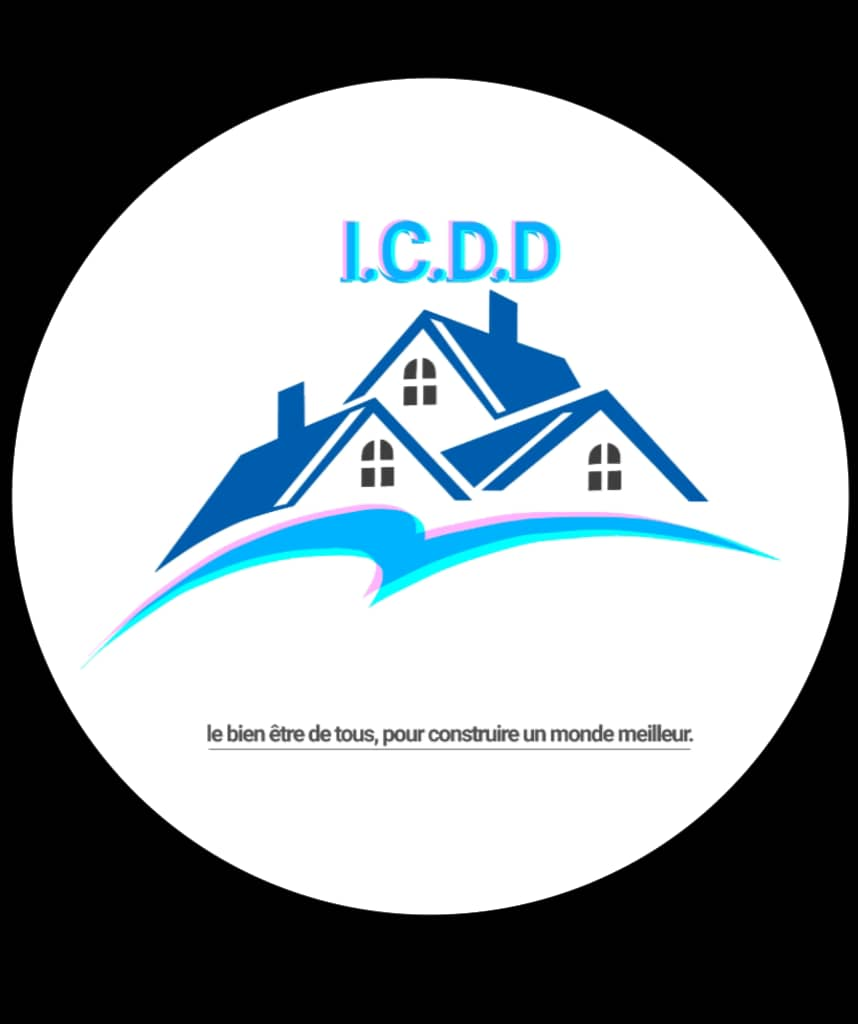
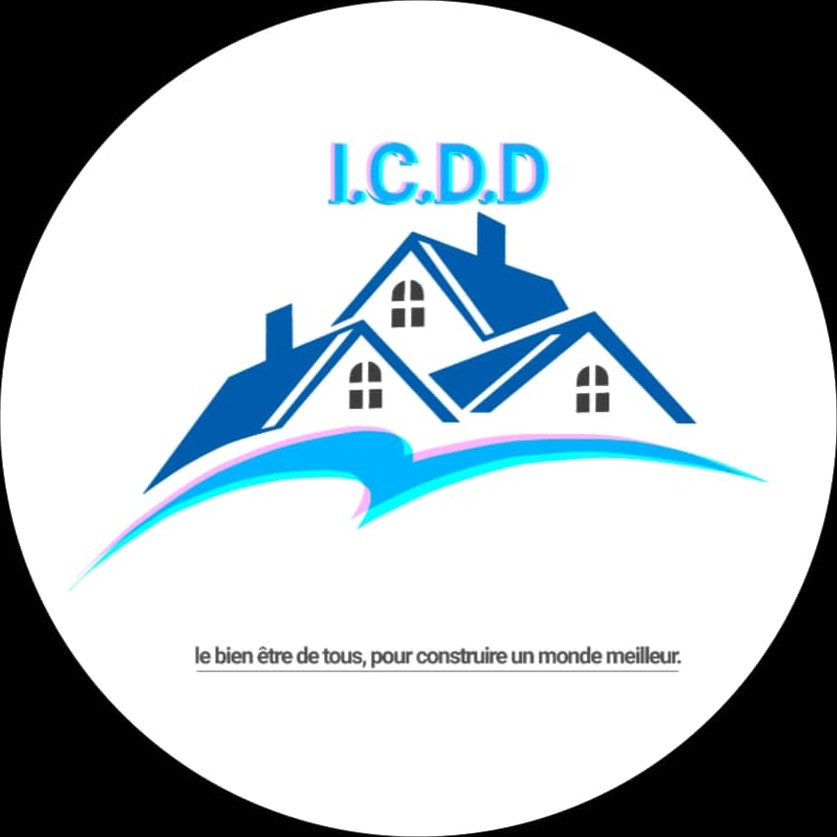
fix: add image fallback and replace corrupted assets
Add onError fallback for the main background image and replace corrupted icdd.jpeg image files to resolve rendering issues.

Changed region(s): [[0.0, 0.0, 1.0, 1.0], [0.2485, 0.6834, 0.8076, 0.7455], [0.2796, 0.4349, 0.3106, 0.4659]]

diff --git a/src/components/TopBar.tsx b/src/components/TopBar.tsx
@@ -2,6 +2,7 @@ import React from 'react';
 import { FilterState, NavTab } from '../types';
 import { ChevronDown, FileText, FolderKanban, LogIn, LogOut, User as UserIcon, Bookmark } from 'lucide-react';
 import { useAuth } from '../context/AuthContext';
+import icddOfficialLogo from '../assets/images/icdd.jpeg';
 
 interface TopBarProps {
   filters: FilterState;
@@ -33,15 +34,15 @@ export const TopBar: React.FC<TopBarProps> = ({
           onClick={() => setActiveTab('accueil')}
           className="flex items-center gap-2 cursor-pointer group"
         >
-          <div className="w-8 h-8 rounded-full bg-slate-950 text-white flex items-center justify-center font-black text-xs shadow-md border border-amber-400/50 tracking-tight group-hover:scale-105 transition-transform overflow-hidden relative">
-            <span className="text-[10px] text-amber-400">IC</span>
+          <div className="w-8 h-8 rounded-full bg-white dark:bg-slate-900 text-slate-900 dark:text-white flex items-center justify-center font-black text-xs shadow-md border border-amber-400/60 tracking-tight group-hover:scale-105 transition-transform overflow-hidden relative">
+            <span className="text-[10px] text-amber-500">IC</span>
             <img 
-              src="/icdd.jpeg" 
+              src={icddOfficialLogo} 
               alt="Logo ICDD" 
-              className="absolute inset-0 w-full h-full object-cover" 
+              className="absolute inset-0 w-full h-full object-cover scale-[1.32] transition-transform" 
               referrerPolicy="no-referrer"
               onError={(e) => {
-                (e.currentTarget as HTMLElement).style.display = 'none';
+                (e.currentTarget as HTMLImageElement).src = '/icdd.jpeg';
               }}
             />
           </div>
@@ -124,15 +125,15 @@ export const TopBar: React.FC<TopBarProps> = ({
             className="flex items-center gap-2.5 px-3.5 py-1.5 rounded-full bg-white/85 dark:bg-slate-900/85 backdrop-blur-xl border border-white/80 dark:border-white/20 shadow-md cursor-pointer hover:scale-105 transition-transform group"
             title="ICDD – Accueil"
           >
-            <div className="w-8 h-8 rounded-full bg-slate-950 text-white flex items-center justify-center font-black text-xs shadow-sm border border-amber-400/50 tracking-tight overflow-hidden relative flex-shrink-0">
-              <span className="text-[10px] text-amber-400">IC</span>
+            <div className="w-8 h-8 rounded-full bg-white dark:bg-slate-900 text-slate-900 dark:text-white flex items-center justify-center font-black text-xs shadow-sm border border-amber-400/60 tracking-tight overflow-hidden relative flex-shrink-0">
+              <span className="text-[10px] text-amber-500">IC</span>
               <img 
-                src="/icdd.jpeg" 
+                src={icddOfficialLogo} 
                 alt="Logo ICDD" 
-                className="absolute inset-0 w-full h-full object-cover" 
+                className="absolute inset-0 w-full h-full object-cover scale-[1.32] transition-transform" 
                 referrerPolicy="no-referrer"
                 onError={(e) => {
-                  (e.currentTarget as HTMLElement).style.display = 'none';
+                  (e.currentTarget as HTMLImageElement).src = '/icdd.jpeg';
                 }}
               />
             </div>

diff --git a/src/components/AgencyView.tsx b/src/components/AgencyView.tsx
@@ -2,6 +2,7 @@ import React from 'react';
 import { TEAM_MEMBERS } from '../data/projects';
 import { Sparkles, Award, ShieldCheck, Compass, Users, CheckCircle2, ArrowUpRight, Phone, MessageCircle, Clock } from 'lucide-react';
 import { NavTab } from '../types';
+import icddOfficialLogo from '../assets/images/icdd.jpeg';
 
 interface AgencyViewProps {
   openQuoteModal: () => void;
@@ -40,15 +41,15 @@ export const AgencyView: React.FC<AgencyViewProps> = ({ openQuoteModal, setActiv
         <div className="bg-white/85 dark:bg-slate-900/85 backdrop-blur-2xl p-5 sm:p-10 rounded-[24px] sm:rounded-[36px] border border-white/80 dark:border-white/20 shadow-xl space-y-4 sm:space-y-6">
           <div className="flex flex-col sm:flex-row sm:items-center justify-between gap-3">
             <div className="inline-flex items-center gap-2.5 px-3.5 py-1.5 rounded-full bg-amber-400/30 text-amber-950 dark:text-amber-300 text-xs font-bold border border-amber-300 w-fit">
-              <div className="w-5 h-5 rounded-full overflow-hidden bg-slate-950 border border-amber-500/50 shadow-sm flex-shrink-0 relative">
-                <span className="text-[8px] text-amber-400 flex items-center justify-center h-full">IC</span>
+              <div className="w-5 h-5 rounded-full overflow-hidden bg-white dark:bg-slate-900 border border-amber-500/50 shadow-sm flex-shrink-0 relative">
+                <span className="text-[8px] text-amber-500 flex items-center justify-center h-full">IC</span>
                 <img 
-                  src="/icdd.jpeg" 
+                  src={icddOfficialLogo} 
                   alt="Logo ICDD" 
-                  className="absolute inset-0 w-full h-full object-cover" 
+                  className="absolute inset-0 w-full h-full object-cover scale-[1.32]" 
                   referrerPolicy="no-referrer"
                   onError={(e) => {
-                    (e.currentTarget as HTMLElement).style.display = 'none';
+                    (e.currentTarget as HTMLImageElement).src = '/icdd.jpeg';
                   }}
                 />
               </div>
@@ -56,12 +57,15 @@ export const AgencyView: React.FC<AgencyViewProps> = ({ openQuoteModal, setActiv
             </div>
 
             <div className="hidden sm:flex items-center gap-2 px-3 py-1 rounded-full bg-slate-100 dark:bg-slate-800 border border-slate-200 dark:border-slate-700 w-fit">
-              <div className="w-6 h-6 rounded-full overflow-hidden border border-amber-400/40 bg-slate-950 flex-shrink-0 relative">
+              <div className="w-6 h-6 rounded-full overflow-hidden border border-amber-400/60 bg-white dark:bg-slate-900 flex-shrink-0 relative">
                 <img 
-                  src="/icdd.jpeg" 
+                  src={icddOfficialLogo} 
                   alt="Logo ICDD" 
-                  className="w-full h-full object-cover" 
+                  className="w-full h-full object-cover scale-[1.32]" 
                   referrerPolicy="no-referrer" 
+                  onError={(e) => {
+                    (e.currentTarget as HTMLImageElement).src = '/icdd.jpeg';
+                  }}
                 />
               </div>
               <span className="text-[11px] font-black uppercase text-slate-800 dark:text-slate-200 tracking-wider">

diff --git a/src/data/projects.ts b/src/data/projects.ts
@@ -1,4 +1,17 @@
 import { Project, DecorOffer } from '../types';
+import icddLuxuryInterior from '../assets/images/icdd_luxury_interior_1786542633755.jpg';
+import villaRiviera from '../assets/images/villa_riviera_1786542646750.jpg';
+import haussmannReborn from '../assets/images/haussmann_reborn_1786542659834.jpg';
+import icddOfficialLogo from '../assets/images/icdd.jpeg';
+import icdddPhoto from '../assets/images/icddd.jpeg';
+
+export const ICDD_ASSETS = {
+  logo: icddOfficialLogo,
+  luxuryInterior: icddLuxuryInterior,
+  villaRiviera: villaRiviera,
+  haussmannReborn: haussmannReborn,
+  decorPhoto: icdddPhoto,
+};
 
 export const ICDD_OFFERS_CONFIG: Record<DecorOffer, { basePrice: number; description: string; badge: string; minWallM2: number }> = {
   'Décoration simple': {
@@ -47,10 +60,11 @@ export const ICDD_PROJECTS: Project[] = [
     startingPrice: 800,
     description: "Finitions sur-mesure d'exception pour un grand salon avec effets de matières artistiques et niches lumineuses.",
     fullDescription: "Réalisation emblématique de la collection Top Modèle d'ICDD. Nos artisans peintres et décorateurs ont créé un jeu de textures murales uniques alliant enduit à la chaux poli, effets de feuilles dorées subtiles et préparation murale au millimètre près.",
-    coverImage: '/src/assets/images/icdd_luxury_interior_1786542633755.jpg',
+    coverImage: icddLuxuryInterior,
     galleryImages: [
-      '/src/assets/images/icdd_luxury_interior_1786542633755.jpg',
-      '/src/assets/images/villa_riviera_1786542646750.jpg',
+      icddLuxuryInterior,
+      villaRiviera,
+      icdddPhoto,
       'https://images.unsplash.com/photo-1600585154340-be6161a56a0c?auto=format&fit=crop&w=1600&q=80',
       'https://images.unsplash.com/photo-1600210492486-724fe5c67fb0?auto=format&fit=crop&w=1600&q=80'
     ],
@@ -81,9 +95,10 @@ export const ICDD_PROJECTS: Project[] = [
     startingPrice: 700,
     description: "Ambiance chaleureuse et lumineuse avec patines dorées, bandeaux de peinture métallisée et finitions velours.",
     fullDescription: "Pour cette suite parentale, ICDD a déployé sa formule Décoration Gold. Les murs se parent d'un jeu de lumière raffiné grâce à des peintures à reflets métalliques doux et des boiseries murales peintes dans des tons chauds.",
-    coverImage: '/src/assets/images/haussmann_reborn_1786542659834.jpg',
+    coverImage: haussmannReborn,
     galleryImages: [
-      '/src/assets/images/haussmann_reborn_1786542659834.jpg',
+      haussmannReborn,
+      icdddPhoto,
       'https://images.unsplash.com/photo-1600566753190-17f0baa2a6c3?auto=format&fit=crop&w=1600&q=80',
       'https://images.unsplash.com/photo-1600607687939-ce8a6c25118c?auto=format&fit=crop&w=1600&q=80'
     ],

diff --git a/src/components/ContactView.tsx b/src/components/ContactView.tsx
@@ -4,6 +4,7 @@ import { useAuth } from '../context/AuthContext';
 import { db, handleFirestoreError, OperationType } from '../lib/firebase';
 import { doc, setDoc, serverTimestamp } from 'firebase/firestore';
 import { ICDD_OFFERS_CONFIG } from '../data/projects';
+import icddOfficialLogo from '../assets/images/icdd.jpeg';
 
 interface ContactViewProps {
   openQuoteModal: () => void;
@@ -71,15 +72,15 @@ export const ContactView: React.FC<ContactViewProps> = ({ openQuoteModal }) => {
         <div className="bg-white/80 dark:bg-slate-900/80 backdrop-blur-2xl p-5 sm:p-10 rounded-[24px] sm:rounded-[36px] border border-white/80 dark:border-white/20 shadow-xl flex flex-col md:flex-row md:items-center justify-between gap-5 sm:gap-6">
           <div className="space-y-2.5">
             <div className="inline-flex items-center gap-2.5 px-3.5 py-1.5 rounded-full bg-amber-400/80 dark:bg-amber-500/20 text-slate-950 dark:text-amber-200 text-xs font-bold border border-amber-300 shadow-sm">
-              <div className="w-5 h-5 rounded-full overflow-hidden bg-slate-950 border border-amber-500/50 shadow-sm flex-shrink-0 relative">
-                <span className="text-[8px] text-amber-400 flex items-center justify-center h-full">IC</span>
+              <div className="w-5 h-5 rounded-full overflow-hidden bg-white dark:bg-slate-900 border border-amber-500/50 shadow-sm flex-shrink-0 relative">
+                <span className="text-[8px] text-amber-500 flex items-center justify-center h-full">IC</span>
                 <img 
-                  src="/icdd.jpeg" 
+                  src={icddOfficialLogo} 
                   alt="Logo ICDD" 
-                  className="absolute inset-0 w-full h-full object-cover" 
+                  className="absolute inset-0 w-full h-full object-cover scale-[1.32]" 
                   referrerPolicy="no-referrer"
                   onError={(e) => {
-                    (e.currentTarget as HTMLElement).style.display = 'none';
+                    (e.currentTarget as HTMLImageElement).src = '/icdd.jpeg';
                   }}
                 />
               </div>

diff --git a/src/components/SidebarNav.tsx b/src/components/SidebarNav.tsx
@@ -1,6 +1,7 @@
 import React from 'react';
 import { Home, LayoutGrid, User, Mail } from 'lucide-react';
 import { NavTab } from '../types';
+import icddOfficialLogo from '../assets/images/icdd.jpeg';
 
 interface SidebarNavProps {
   activeTab: NavTab;
@@ -44,17 +45,17 @@ export const SidebarNav: React.FC<SidebarNavProps> = ({ activeTab, setActiveTab 
           {/* Brand Monogram Icon at top of Sidebar */}
           <div 
             onClick={() => setActiveTab('accueil')}
-            className="w-11 h-11 rounded-full bg-slate-950 text-white flex items-center justify-center font-black tracking-tighter text-xs shadow-md cursor-pointer hover:scale-105 transition-transform border border-amber-400/40 mb-2 group relative overflow-hidden"
+            className="w-11 h-11 rounded-full bg-white dark:bg-slate-900 text-slate-900 dark:text-white flex items-center justify-center font-black tracking-tighter text-xs shadow-md cursor-pointer hover:scale-105 transition-transform border border-amber-400/60 mb-2 group relative overflow-hidden"
             title="ICDD – Décoration & Peinture"
           >
-            <span className="text-[10px] font-black uppercase text-amber-400">ICDD</span>
+            <span className="text-[10px] font-black uppercase text-amber-500">ICDD</span>
             <img 
-              src="/icdd.jpeg" 
+              src={icddOfficialLogo} 
               alt="Logo ICDD" 
-              className="absolute inset-0 w-full h-full object-cover" 
+              className="absolute inset-0 w-full h-full object-cover scale-[1.32] transition-transform" 
               referrerPolicy="no-referrer"
               onError={(e) => {
-                (e.currentTarget as HTMLElement).style.display = 'none';
+                (e.currentTarget as HTMLImageElement).src = '/icdd.jpeg';
               }}
             />
             <span className="absolute left-16 bg-slate-900/95 text-white text-xs px-3 py-1.5 rounded-lg opacity-0 group-hover:opacity-100 transition-opacity duration-200 pointer-events-none whitespace-nowrap shadow-xl border border-white/10 z-50">

diff --git a/src/components/QuoteEstimatorModal.tsx b/src/components/QuoteEstimatorModal.tsx
@@ -5,6 +5,7 @@ import { useAuth } from '../context/AuthContext';
 import { db, handleFirestoreError, OperationType } from '../lib/firebase';
 import { doc, setDoc, serverTimestamp } from 'firebase/firestore';
 import { ICDD_OFFERS_CONFIG } from '../data/projects';
+import icddOfficialLogo from '../assets/images/icdd.jpeg';
 
 interface QuoteEstimatorModalProps {
   isOpen: boolean;
@@ -194,15 +195,15 @@ export const QuoteEstimatorModal: React.FC<QuoteEstimatorModalProps> = ({
             {/* Modal Header with ICDD Identity */}
             <div className="mb-5 sm:mb-6 space-y-1.5 sm:space-y-2 pr-8">
               <div className="inline-flex items-center gap-2 px-3 py-1 rounded-full bg-amber-400/30 text-amber-950 dark:text-amber-300 text-xs font-bold border border-amber-300">
-                <div className="w-4 h-4 rounded-full overflow-hidden bg-slate-950 border border-amber-500/50 shadow-sm flex-shrink-0 relative">
-                  <span className="text-[7px] text-amber-400 flex items-center justify-center h-full">IC</span>
+                <div className="w-4 h-4 rounded-full overflow-hidden bg-white dark:bg-slate-900 border border-amber-500/50 shadow-sm flex-shrink-0 relative">
+                  <span className="text-[7px] text-amber-500 flex items-center justify-center h-full">IC</span>
                   <img 
-                    src="/icdd.jpeg" 
+                    src={icddOfficialLogo} 
                     alt="Logo ICDD" 
-                    className="absolute inset-0 w-full h-full object-cover" 
+                    className="absolute inset-0 w-full h-full object-cover scale-[1.32]" 
                     referrerPolicy="no-referrer"
                     onError={(e) => {
-                      (e.currentTarget as HTMLElement).style.display = 'none';
+                      (e.currentTarget as HTMLImageElement).src = '/icdd.jpeg';
                     }}
                   />
                 </div>

diff --git a/src/components/HeroOverlay.tsx b/src/components/HeroOverlay.tsx
@@ -2,6 +2,7 @@ import React, { useState } from 'react';
 import { Project, NavTab } from '../types';
 import { ArrowUpRight, Heart, Bookmark, Share2, MapPin, Sparkles, Phone, MessageCircle, Calendar, ShieldCheck, CheckCircle2 } from 'lucide-react';
 import { ICDD_OFFERS_CONFIG } from '../data/projects';
+import icddOfficialLogo from '../assets/images/icdd.jpeg';
 
 interface HeroOverlayProps {
   featuredProject: Project;
@@ -54,15 +55,15 @@ export const HeroOverlay: React.FC<HeroOverlayProps> = ({
         
         {/* Welcome Badge with Official ICDD Logo */}
         <div className="inline-flex items-center gap-2.5 px-3.5 py-1.5 rounded-full bg-amber-400/90 dark:bg-amber-500/30 backdrop-blur-md border border-amber-300 text-slate-950 dark:text-amber-200 text-[11px] sm:text-xs font-bold tracking-wide shadow-md">
-          <div className="w-5 h-5 rounded-full overflow-hidden bg-slate-950 border border-amber-600/40 shadow-sm flex-shrink-0 relative">
-            <span className="text-[8px] text-amber-400 flex items-center justify-center h-full">IC</span>
+          <div className="w-5 h-5 rounded-full overflow-hidden bg-white dark:bg-slate-900 border border-amber-600/40 shadow-sm flex-shrink-0 relative">
+            <span className="text-[8px] text-amber-500 flex items-center justify-center h-full">IC</span>
             <img 
-              src="/icdd.jpeg" 
+              src={icddOfficialLogo} 
               alt="Logo ICDD" 
-              className="absolute inset-0 w-full h-full object-cover" 
+              className="absolute inset-0 w-full h-full object-cover scale-[1.32]" 
               referrerPolicy="no-referrer"
               onError={(e) => {
-                (e.currentTarget as HTMLElement).style.display = 'none';
+                (e.currentTarget as HTMLImageElement).src = '/icdd.jpeg';
               }}
             />
           </div>

diff --git a/src/components/ProjectDetailModal.tsx b/src/components/ProjectDetailModal.tsx
@@ -3,6 +3,7 @@ import { Project } from '../types';
 import { X, MapPin, Layers, Lightbulb, CheckCircle2, ChevronLeft, ChevronRight, FileText, Bookmark, Phone, MessageCircle, ShieldCheck } from 'lucide-react';
 import { useAuth } from '../context/AuthContext';
 import { ICDD_OFFERS_CONFIG } from '../data/projects';
+import icddOfficialLogo from '../assets/images/icdd.jpeg';
 
 interface ProjectDetailModalProps {
   project: Project | null;
@@ -108,8 +109,16 @@ export const ProjectDetailModal: React.FC<ProjectDetailModalProps> = ({
                 </span>
               )}
               <span className="px-2.5 sm:px-3 py-0.5 sm:py-1 rounded-full bg-slate-950/70 backdrop-blur-md text-white text-[10px] sm:text-xs font-semibold flex items-center gap-1.5 border border-white/30">
-                <div className="w-3.5 h-3.5 rounded-full overflow-hidden bg-slate-950 flex-shrink-0 relative">
-                  <img src="/icdd.jpeg" alt="Logo ICDD" className="w-full h-full object-cover" referrerPolicy="no-referrer" />
+                <div className="w-3.5 h-3.5 rounded-full overflow-hidden bg-white dark:bg-slate-900 flex-shrink-0 relative">
+                  <img 
+                    src={icddOfficialLogo} 
+                    alt="Logo ICDD" 
+                    className="w-full h-full object-cover scale-[1.32]" 
+                    referrerPolicy="no-referrer" 
+                    onError={(e) => {
+                      (e.currentTarget as HTMLImageElement).src = '/icdd.jpeg';
+                    }}
+                  />
                 </div>
                 <span>Réalisation ICDD</span>
               </span>

diff --git a/src/App.tsx b/src/App.tsx
@@ -58,7 +58,7 @@ export default function App() {
       >
         
         {/* Main Background Image (Luxury ICDD Interior Photography) */}
-        <div className="absolute inset-0 z-0 overflow-hidden pointer-events-none">
+        <div className="absolute inset-0 z-0 overflow-hidden pointer-events-none bg-slate-950">
           <img
             src={ICDD_PROJECTS[0].coverImage}
             alt="ICDD Interior Design"
@@ -66,6 +66,9 @@ export default function App() {
               activeTab !== 'accueil' ? 'scale-105 blur-md opacity-40' : 'scale-100 opacity-90'
             }`}
             referrerPolicy="no-referrer"
+            onError={(e) => {
+              (e.currentTarget as HTMLImageElement).src = '/images/icdd_luxury_interior_1786542633755.jpg';
+            }}
           />
           {/* Subtle Vignetting & Ambient Gradient Overlay */}
           <div className="absolute inset-0 bg-gradient-to-t from-slate-950/80 via-slate-950/20 to-slate-950/40" />

diff --git a/src/components/PortfolioView.tsx b/src/components/PortfolioView.tsx
@@ -119,6 +119,9 @@ export const PortfolioView: React.FC<PortfolioViewProps> = ({
                   alt={project.title}
                   className="w-full h-full object-cover group-hover:scale-110 transition-transform duration-700"
                   referrerPolicy="no-referrer"
+                  onError={(e) => {
+                    (e.currentTarget as HTMLImageElement).src = 'https://images.unsplash.com/photo-1600585154340-be6161a56a0c?auto=format&fit=crop&w=1600&q=80';
+                  }}
                 />
                 <div className="absolute inset-0 bg-gradient-to-t from-slate-950/80 via-transparent to-transparent" />
 

diff --git a/src/vite-env.d.ts b/src/vite-env.d.ts
@@ -1,0 +1,26 @@
+/// <reference types="vite/client" />
+
+declare module '*.jpg' {
+  const content: string;
+  export default content;
+}
+
+declare module '*.jpeg' {
+  const content: string;
+  export default content;
+}
+
+declare module '*.png' {
+  const content: string;
+  export default content;
+}
+
+declare module '*.svg' {
+  const content: string;
+  export default content;
+}
+
+declare module '*.webp' {
+  const content: string;
+  export default content;
+}
